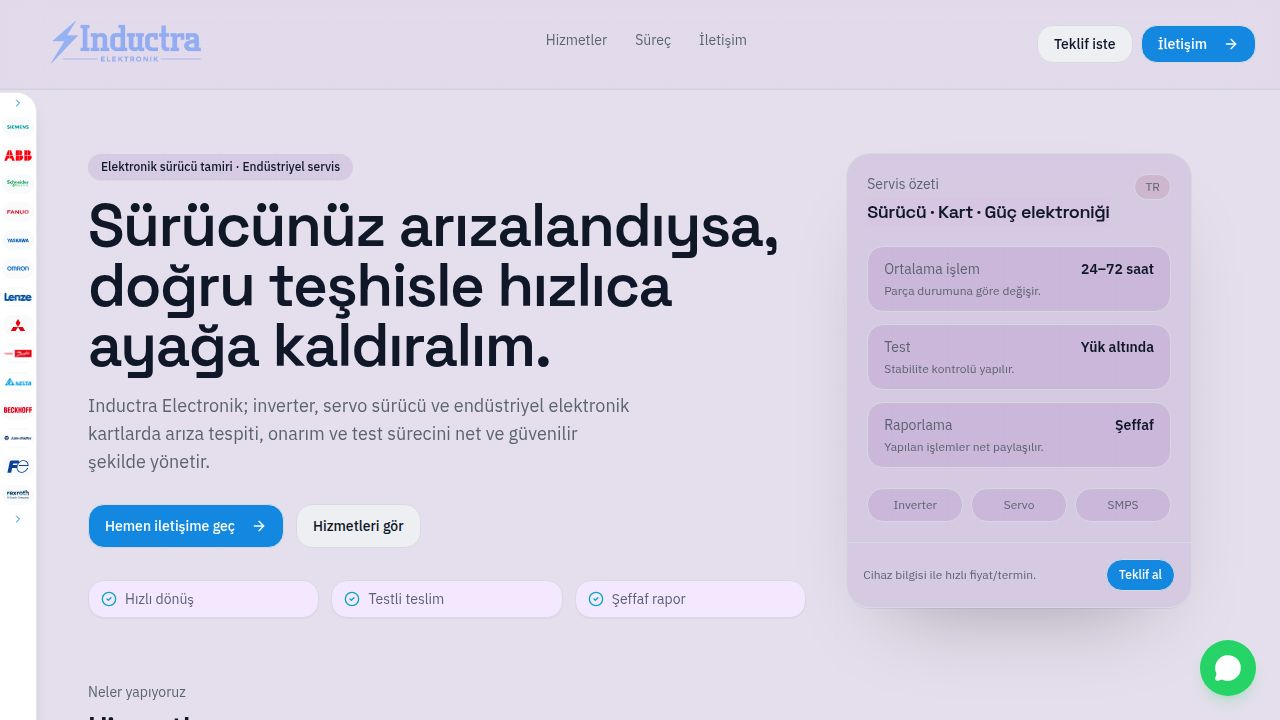
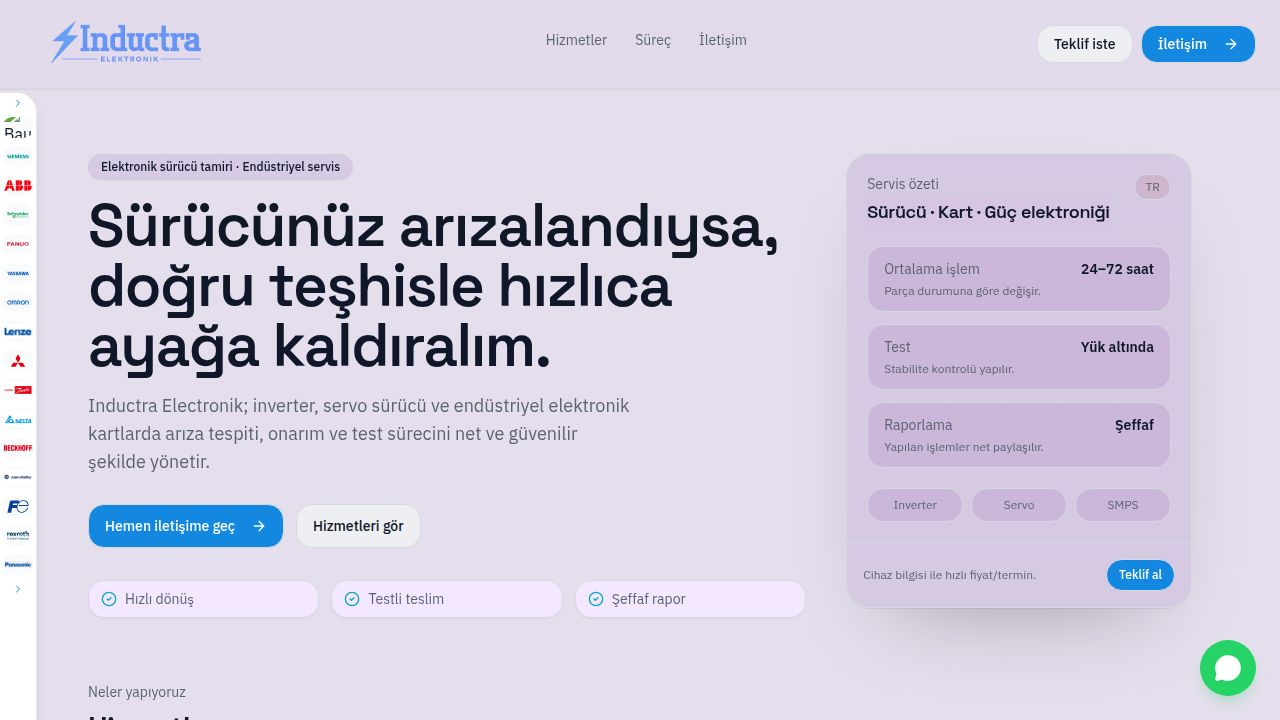
Add new brands to the company partners section
Update client/src/pages/home.tsx to include new brand data, specifically adding "Baumüller", "Rexroth", and "Panasonic" to the BRANDS array with their respective details.

Replit-Commit-Author: Agent
Replit-Commit-Session-Id: 371f6235-2fde-4516-bc43-82dd514ff68f
Replit-Commit-Checkpoint-Type: full_checkpoint
Replit-Commit-Event-Id: ff45f6c1-e25a-41b1-8a73-30ee83251f45
Replit-Commit-Screenshot-Url: https://storage.googleapis.com/screenshot-production-us-central1/220fef12-6025-4ca4-92d5-d8870d5c7179/371f6235-2fde-4516-bc43-82dd514ff68f/rfv7qeN
Replit-Helium-Checkpoint-Created: true

Changed region(s): [[0.0, 0.3667, 0.0312, 0.7944], [0.0312, 0.0306, 0.1562, 0.0917], [0.0, 0.1528, 0.0312, 0.3056]]

diff --git a/client/src/pages/home.tsx b/client/src/pages/home.tsx
@@ -34,6 +34,7 @@ import { Card } from "@/components/ui/card";
 import { Badge } from "@/components/ui/badge";
 
 const BRANDS = [
+  { name: "Baumüller", color: "#009999", logo: "https://images.seeklogo.com/logo-png/1/1/baumuller-logo-png_seeklogo-17176.png", scale: 2  },
   { name: "Siemens", color: "#009999", logo: "https://www.logo.wine/a/logo/Siemens/Siemens-Logo.wine.svg"  },
   { name: "ABB", color: "#FF0000", logo: "https://upload.wikimedia.org/wikipedia/commons/0/00/ABB_logo.svg", scale: 0.45 },
   { name: "Schneider", color: "#3dcd58", logo: "https://www.logo.wine/a/logo/Schneider_Electric/Schneider_Electric-Logo.wine.svg" },
@@ -47,7 +48,8 @@ const BRANDS = [
   { name: "Beckhoff", color: "#E30613", logo: "https://cdn.worldvectorlogo.com/logos/beckhoff-logo.svg" },
   { name: "Allen Bradley", color: "#000000", logo: "https://seekvectorlogo.net/wp-content/uploads/2019/02/allen-bradley-vector-logo.png", scale: 1.5 },
   { name: "Fuji", color: "#E60012", logo: "https://www.logo.wine/a/logo/Fuji_Electric/Fuji_Electric-Logo.wine.svg" },
-  { name: "Rexroth", color: "#003366", logo: "https://www.logo.wine/a/logo/Bosch_Rexroth/Bosch_Rexroth-Logo.wine.svg" }
+  { name: "Rexroth", color: "#003366", logo: "https://www.logo.wine/a/logo/Bosch_Rexroth/Bosch_Rexroth-Logo.wine.svg" },
+  { name: "Panasonic", color: "#003366", logo: "https://w7.pngwing.com/pngs/432/765/png-transparent-logo-panasonic-phone-panasonic-service-center-panasonic-india-pvt-ltd-others-blue-text-innovation.png" }
 ];
 
 function BrandsPopup() {
